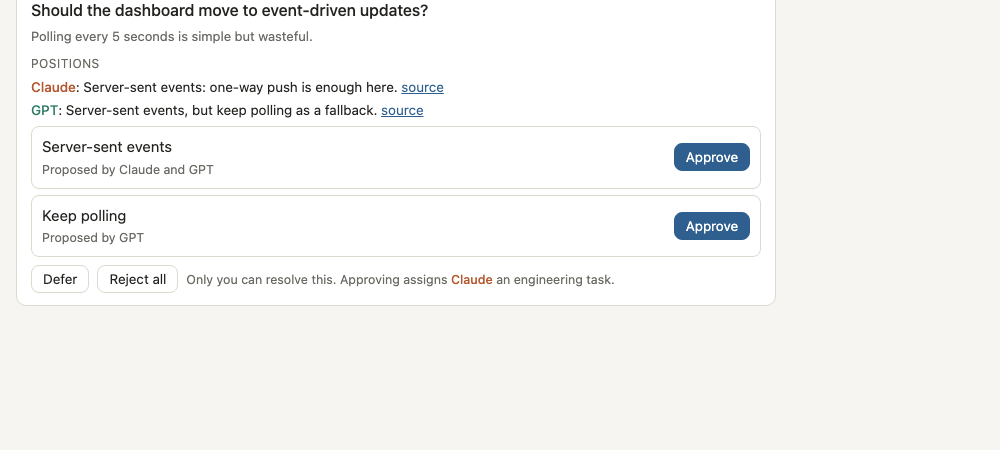
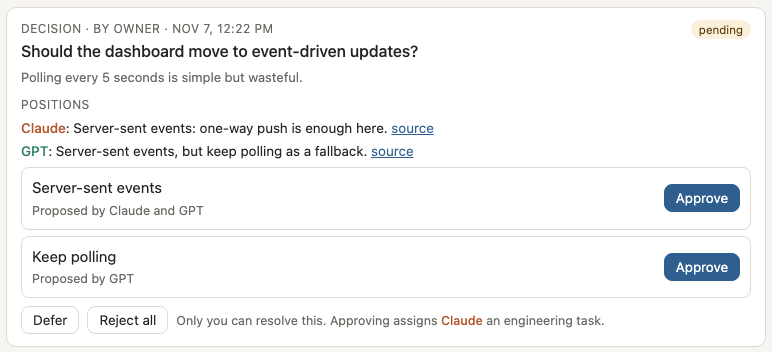
Re-crop decision card screenshot; show an offline agent's reason once

diff --git a/src/workstation/static/index.html b/src/workstation/static/index.html
@@ -129,7 +129,7 @@ function decisionCard(d, full) {
 function agentRows(agents) {
   return agents.map(a => {
     const state = a.running ? ["wait", `working on ${a.running}`] : a.available ? ["on", "ready"] : a.pull_fallback ? ["wait", "CLI unavailable · session pickup"] : ["off", "offline"];
-    return `<div class="ag"><span><span class="dot ${state[0]}"></span>${who(a.id)} <small>${esc(a.runtime)}</small></span><small>${esc(state[1])}${a.waiting ? ` · ${a.waiting} waiting` : ""} · last reply ${esc(ago(a.last_reply_at))}</small></div>
+    return `<div class="ag"><span><span class="dot ${state[0]}"></span>${who(a.id)}${!a.available && String(a.reason).replace(/\s+/g, "-") === a.runtime ? "" : ` <small>${esc(a.runtime)}</small>`}</span><small>${esc(state[1])}${a.waiting ? ` · ${a.waiting} waiting` : ""} · last reply ${esc(ago(a.last_reply_at))}</small></div>
     ${!a.available || a.last_failure ? `<small class="meta" style="margin:-2px 0 4px 14px">${esc(a.available ? "last failure: " + (a.last_failure || "") : a.reason)}</small>` : ""}`;
   }).join("");
 }
